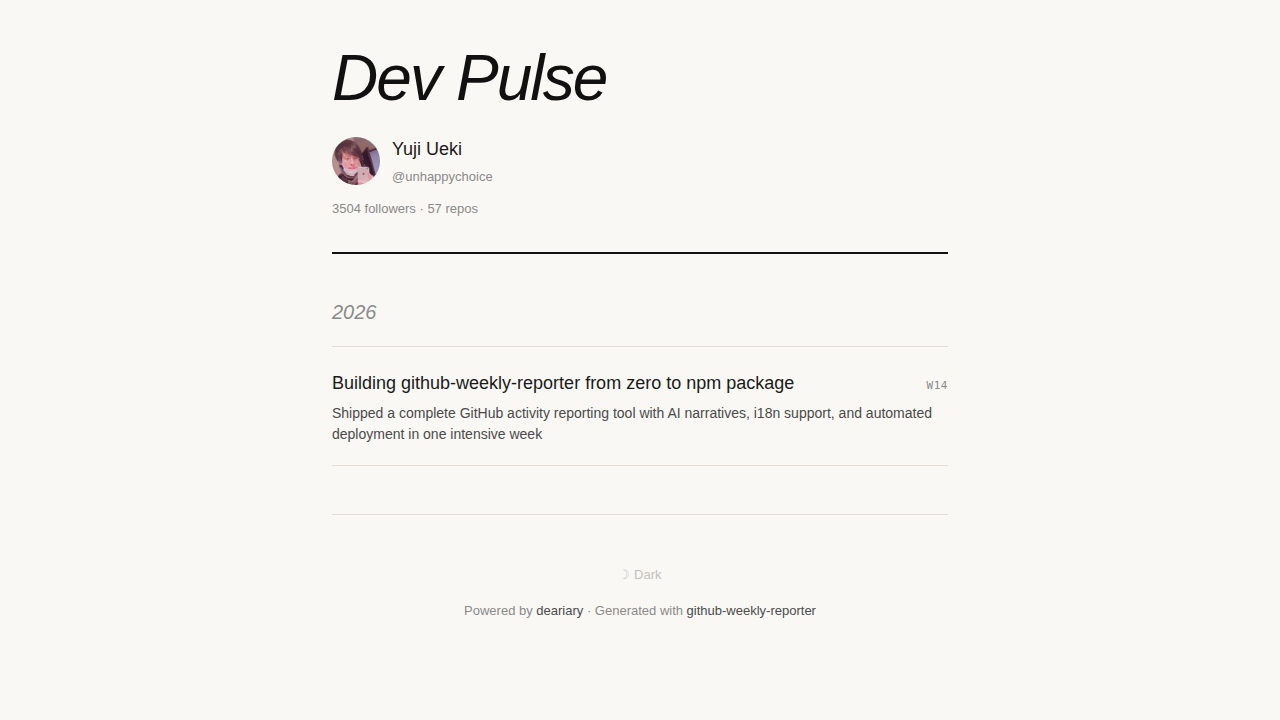
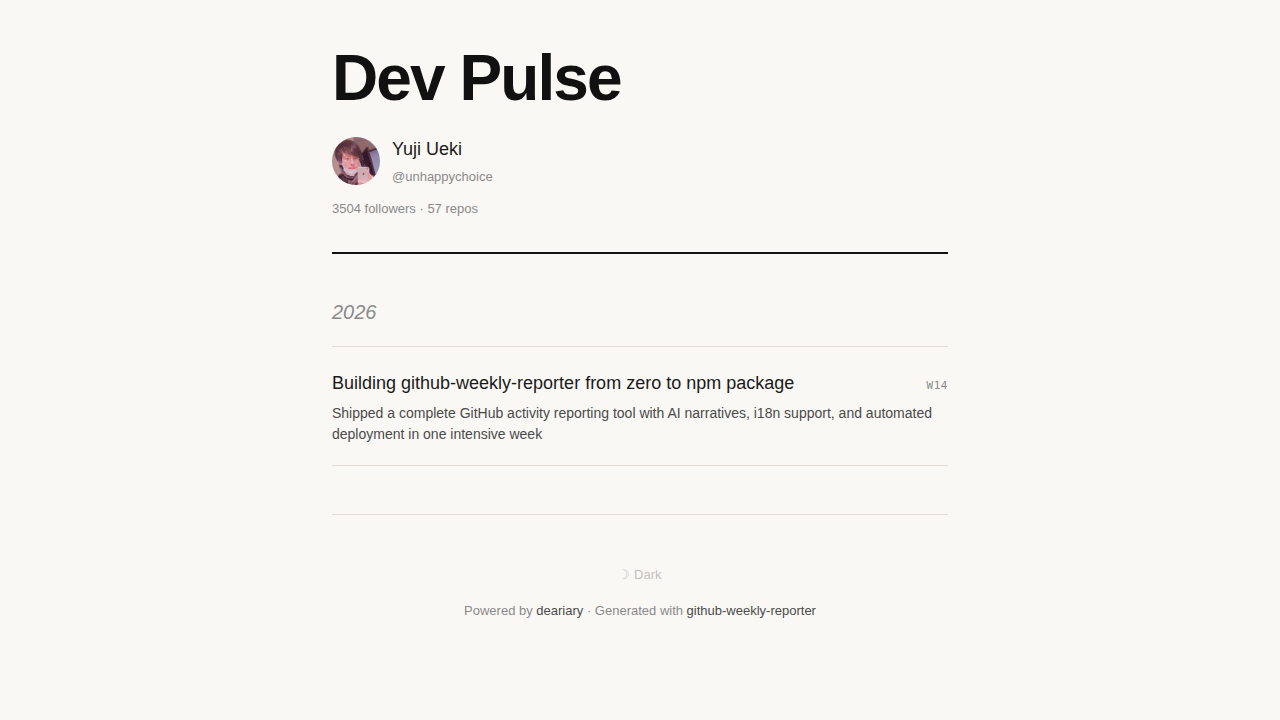
refactor: switch editorial fonts to Playfair Display + Newsreader
Replace Cormorant Garamond (too thin) with Playfair Display for
headings (bold, high contrast) and DM Sans with Newsreader for body
text (elegant serif). All-serif pairing gives a cohesive magazine feel.

Update font weights: h1 700 (was 500 italic), section headings 700.

Changed region(s): [[0.25, 0.0611, 0.5, 0.1528]]

diff --git a/src/renderer/themes/editorial/styles.ts b/src/renderer/themes/editorial/styles.ts
@@ -122,21 +122,21 @@ export const THEME_TOGGLE_SCRIPT = `<script>
 
 export const buildCSS = (language: Language = "en"): string => {
   const f = getFontConfig(language);
-  const serif = `'Cormorant Garamond', ${f.bodyFamily}, Georgia, 'Times New Roman', serif`;
-  const sans = `'DM Sans', ${f.bodyFamily}`;
+  const heading = `'Playfair Display', ${f.bodyFamily}, Georgia, 'Times New Roman', serif`;
+  const body = `'Newsreader', ${f.bodyFamily}, Georgia, serif`;
   const mono = f.monoFamily;
 
   return `
     ${COLOR_VARS}
     ${THEME_TOGGLE_CSS}
 
-    @import url('https://fonts.googleapis.com/css2?family=Cormorant+Garamond:ital,wght@0,400;0,500;0,600;0,700;1,400;1,500&family=DM+Sans:wght@400;500;700&display=swap');
+    @import url('https://fonts.googleapis.com/css2?family=Playfair+Display:ital,wght@0,400;0,700;0,900;1,400;1,700&family=Newsreader:ital,opsz,wght@0,6..72,400;0,6..72,500;0,6..72,700;1,6..72,400&display=swap');
     ${f.importUrl ? `@import url('${f.importUrl}');` : ""}
 
     * { margin: 0; padding: 0; box-sizing: border-box; }
 
     body {
-      font-family: ${sans};
+      font-family: ${body};
       background: var(--e-bg);
       color: var(--e-text);
       line-height: 1.8;
@@ -162,7 +162,7 @@ export const buildCSS = (language: Language = "en"): string => {
     nav a { color: var(--e-text-secondary); text-decoration: none; font-size: 0.875rem; }
     nav a:hover { color: var(--e-accent); }
     .nav-site-title {
-      font-family: ${serif}; font-size: 1rem; font-weight: 600;
+      font-family: ${heading}; font-size: 1rem; font-weight: 600;
       font-style: italic; color: var(--e-text-tertiary);
       letter-spacing: 0.02em;
     }
@@ -184,9 +184,9 @@ export const buildCSS = (language: Language = "en"): string => {
       vertical-align: middle; margin-right: 0.375rem;
     }
     h1 {
-      font-family: ${serif};
+      font-family: ${heading};
       font-size: clamp(2rem, 5vw, 3rem);
-      font-weight: 500; font-style: italic;
+      font-weight: 700;
       line-height: 1.15; letter-spacing: -0.02em;
       color: var(--e-heading);
       margin-bottom: 0.75rem;
@@ -211,7 +211,7 @@ export const buildCSS = (language: Language = "en"): string => {
     }
     .overview p:last-child { margin-bottom: 0; }
     .overview p:first-child::first-letter {
-      font-family: ${serif};
+      font-family: ${heading};
       float: left;
       font-size: 3.5rem;
       line-height: 0.8;
@@ -232,7 +232,7 @@ export const buildCSS = (language: Language = "en"): string => {
       padding-bottom: 0.5rem;
     }
     .section-group-title {
-      font-family: ${serif};
+      font-family: ${heading};
       font-size: 2rem; font-weight: 500;
       letter-spacing: -0.02em;
     }
@@ -255,7 +255,7 @@ export const buildCSS = (language: Language = "en"): string => {
       font-weight: 500; margin-bottom: 0.375rem;
     }
     .section-heading {
-      font-family: ${serif};
+      font-family: ${heading};
       font-size: 1.5rem; font-weight: 500;
       letter-spacing: -0.01em;
       margin-bottom: 0.5rem;
@@ -322,7 +322,7 @@ export const buildCSS = (language: Language = "en"): string => {
       display: flex; justify-content: space-between; align-items: baseline;
     }
     .highlight-header-title {
-      font-family: ${serif};
+      font-family: ${heading};
       font-size: 2rem; font-weight: 500;
       letter-spacing: -0.02em;
     }
@@ -351,7 +351,7 @@ export const buildCSS = (language: Language = "en"): string => {
     .highlight-issue { background: var(--e-badge-issue); color: #000; }
     .highlight-discussion { background: var(--e-badge-discussion); }
     .highlight-title {
-      font-family: ${serif};
+      font-family: ${heading};
       font-size: 1.125rem; font-weight: 500;
       margin-bottom: 0.25rem;
     }
@@ -415,11 +415,12 @@ export const buildCSS = (language: Language = "en"): string => {
 
 export const buildIndexCSS = (language: Language = "en"): string => {
   const f = getFontConfig(language);
-  const serif = `'Cormorant Garamond', ${f.bodyFamily}, Georgia, serif`;
+  const heading = `'Playfair Display', ${f.bodyFamily}, Georgia, serif`;
+  const body = `'Newsreader', ${f.bodyFamily}, Georgia, serif`;
   const mono = f.monoFamily;
 
   return `
-    body { max-width: 680px; margin: 0 auto; padding: 0 2rem; }
+    body { max-width: 680px; margin: 0 auto; padding: 0 2rem; font-family: ${body}; }
 
     /* HEADER */
     .index-header {
@@ -428,9 +429,9 @@ export const buildIndexCSS = (language: Language = "en"): string => {
       margin-bottom: 2.5rem;
     }
     .index-header h1 {
-      font-family: ${serif};
+      font-family: ${heading};
       font-size: clamp(2.5rem, 8vw, 4rem);
-      font-weight: 500; font-style: italic;
+      font-weight: 700;
       letter-spacing: -0.03em;
       line-height: 0.95;
       color: var(--e-heading);
@@ -443,7 +444,7 @@ export const buildIndexCSS = (language: Language = "en"): string => {
     .index-profile:hover { color: var(--e-accent); }
     .index-profile img { width: 48px; height: 48px; border-radius: 50%; }
     .index-profile-name {
-      font-family: ${serif};
+      font-family: ${heading};
       font-size: 1.125rem; font-weight: 500;
     }
     .index-profile-handle { font-size: 0.8125rem; color: var(--e-text-tertiary); }
@@ -452,7 +453,7 @@ export const buildIndexCSS = (language: Language = "en"): string => {
     /* YEAR */
     .year-group { margin-bottom: 3rem; }
     .year-label {
-      font-family: ${serif};
+      font-family: ${heading};
       font-size: 1.25rem; font-weight: 500; font-style: italic;
       color: var(--e-text-tertiary);
       margin-bottom: 1rem;
@@ -469,7 +470,7 @@ export const buildIndexCSS = (language: Language = "en"): string => {
     .week-item:hover .week-item-title { color: var(--e-accent); }
     .week-item-header { display: flex; justify-content: space-between; align-items: baseline; }
     .week-item-title {
-      font-family: ${serif};
+      font-family: ${heading};
       font-size: 1.125rem; font-weight: 500;
       transition: color 0.2s;
     }

diff --git a/src/renderer/themes/themes.test.ts b/src/renderer/themes/themes.test.ts
@@ -286,11 +286,11 @@ describe("editorial theme", () => {
     expect(theme.templatesDir).toContain("themes/editorial/templates");
   });
 
-  it("buildCSS includes serif font (Cormorant Garamond)", () => {
+  it("buildCSS includes Playfair Display and Newsreader", () => {
     const theme = loadTheme("editorial");
     const css = theme.buildCSS("en");
-    expect(css).toContain("Cormorant Garamond");
-    expect(css).toContain("DM Sans");
+    expect(css).toContain("Playfair Display");
+    expect(css).toContain("Newsreader");
   });
 
   it("buildCSS uses CSS custom properties", () => {
@@ -331,7 +331,7 @@ describe("editorial theme", () => {
     const html = renderReport(MOCK_DATA, { theme: "editorial" });
     expect(html).toMatch(/^<!DOCTYPE html>/);
     expect(html).toContain("Auth refactor completed");
-    expect(html).toContain("Cormorant Garamond");
+    expect(html).toContain("Playfair Display");
     expect(html).toContain("first-letter");
   });
 
